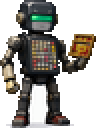
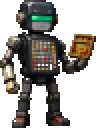
Boss fight: the finale's giant is a towering frontal Kuro far away; the objects' sprites cut clean
The far larger Kuro is now a full figure seen from below — horns, claws, tentacles for wings, a
red seam down its chest, an empty cracked floor beneath — standing far off in the dark; the
shrunken field settles onto that floor. (The author: the face close-up read as near, not as
something towering over everything.) The objects' sprites lost the ground shadows and the grey
patches the flood fill had left (a second pass on the lowest band, the calculator by hand).

diff --git a/src/world/room/room.css b/src/world/room/room.css
@@ -793,9 +793,9 @@
 .boss-page.after .bs-giant{animation:bs-giant-in 4s 1.2s ease-in-out both}
 @keyframes bs-giant-in{0%{opacity:0}100%{opacity:1}}
 .boss-page.after .bs-field{animation:bs-pull 4s 1.2s cubic-bezier(.3,.1,.2,1) both;transform-origin:50% 76%}
-@keyframes bs-pull{0%{transform:scale(1)}100%{transform:scale(.2) translateY(520px)}}
+@keyframes bs-pull{0%{transform:scale(1)}100%{transform:scale(.16) translateY(900px)}}
 .boss-page.after .bs-bg{animation:bs-bg-out 4s 1.2s ease-in-out both;transform-origin:50% 76%}
-@keyframes bs-bg-out{100%{transform:scale(.2) translateY(520px);opacity:0}}
+@keyframes bs-bg-out{100%{transform:scale(.16) translateY(900px);opacity:0}}
 .boss-page.after .bs-top,.boss-page.after .bs-atb,.boss-page.after .bs-bossbar{opacity:0}
 .boss-page.after .bs-box{top:40px;width:420px;margin-left:-210px;min-height:0;padding:12px;text-align:center;background:rgba(5,6,10,.6)}
 .boss-page.after .bs-box .bs-cmd{margin:0}
